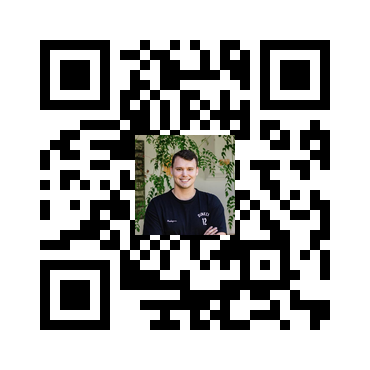
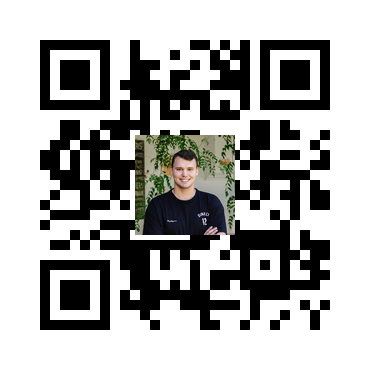
edad added

diff --git a/templates/register.html b/templates/register.html
@@ -15,6 +15,7 @@
         <label>Password</label> <input name="password" type="password"> <br>
         <label>Nombre</label> <input name="nombre"> <br>
         <label>Apellido</label> <input name="apellido"> <br>
+        <label>Edad</label> <input name="edad" type="number"> <br>
         <label>Tipo de sangre</label> <input name="tipo_sangre"> <br>
         <label>Enfermedad de base</label> <input name="enfermedad_base"> <br>
         <label>Alergia</label> <input name="alergia"> <br>

diff --git a/templates/ficha.html b/templates/ficha.html
@@ -14,7 +14,9 @@
     <p> Cedula: {{usuario['cedula']}} </p>
     <p> Nombre: {{usuario['nombre']}} </p>
     <p> Apellido: {{usuario['apellido']}} </p>
+    <p> Edad: {{usuario['edad']}}</p>
     <p> Tipo de sangre: {{usuario['tipo_de_sangre']}} </p>
+    <p> Enfermedad de base: {{usuario['enfermedad_base']}}</p>
     <p> Alergia: {{usuario['alergia']}} </p>
     <p> Seguro medico: {{usuario['seguro_medico']}} </p>
     <br>

diff --git a/app.py b/app.py
@@ -5,7 +5,7 @@ app = Flask(__name__)
 
 # Configuramos la ruta a la base de datos
 # Conexion a la db 
-app.config['SQLALCHEMY_DATABASE_URI'] = 'sqlite:///base_de_datos.db' 
+app.config['SQLALCHEMY_DATABASE_URI'] = 'sqlite:///base_de_datos2.db' 
 # Configuramos la clave secreta para el manejo de sesiones 
 app.config['SECRET_KEY'] = 'clavesecreta'
 
@@ -18,6 +18,7 @@ class Usuario(db.Model):
     id = db.Column(db.Integer, primary_key=True)
     nombre = db.Column(db.String(50), nullable=False)
     cedula = db.Column(db.Integer, nullable=False)
+    edad = db.Column(db.Integer, nullable=False)
     password = db.Column(db.String(50), nullable=False)
     apellido = db.Column(db.String(50), nullable=False)
     tipo_sangre = db.Column(db.String(50), nullable=False)
@@ -28,9 +29,10 @@ class Usuario(db.Model):
     tel_cont = db.Column(db.Integer, nullable=False)
     parentesco = db.Column(db.String(50), nullable=False)
 
-    def __init__(self, nombre, cedula, password, apellido, tipo_sangre, enf_base, alergia, seguro_medico, nom_cont, tel_cont, parentesco): 
+    def __init__(self, nombre, cedula, edad, password, apellido, tipo_sangre, enf_base, alergia, seguro_medico, nom_cont, tel_cont, parentesco): 
         self.nombre = nombre
         self.cedula = cedula
+        self.edad = edad
         self.password = password
         self.apellido = apellido
         self.tipo_sangre = tipo_sangre
@@ -54,6 +56,7 @@ def register():
 
         nombre = diccionario['nombre']
         cedula = diccionario['cedula']
+        edad = diccionario['edad']
         password = diccionario['password']
         apellido = diccionario['apellido']
         tipo_sangre = diccionario['tipo_sangre']
@@ -67,7 +70,7 @@ def register():
         print(nombre, cedula, password, apellido, tipo_sangre, enf_base, alergia, seguro_medico, nom_cont, tel_cont, parentesco)
 
         # crear un objeto con los datos del form y guardar 
-        user = Usuario(nombre, cedula, password, apellido, tipo_sangre, enf_base, alergia, seguro_medico, nom_cont, tel_cont, parentesco)
+        user = Usuario(nombre, cedula, edad, password, apellido, tipo_sangre, enf_base, alergia, seguro_medico, nom_cont, tel_cont, parentesco)
         
         # Agregar a la base de datos
         db.session.add(user)

diff --git a/qr.py b/qr.py
@@ -20,7 +20,7 @@ Qrcode = qrcode.QRCode(error_correction=qrcode.constants.ERROR_CORRECT_H)
 
 
 # Generamos la ruta a la que nuestro codigo QR va a redireccionar
-url = 'http://192.168.100.52:7000/' 
+url = 'http://192.168.100.31:7000/login' 
 Qrcode.add_data(url)
 # Generamos el codigo QR
 qrcode.make()
